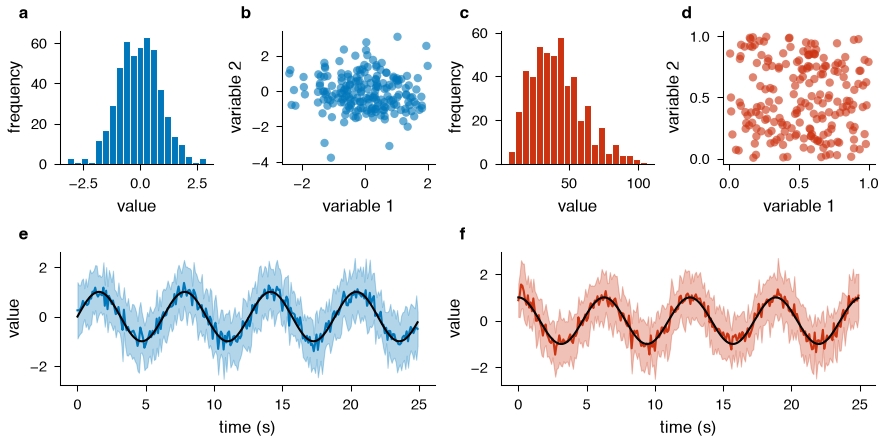
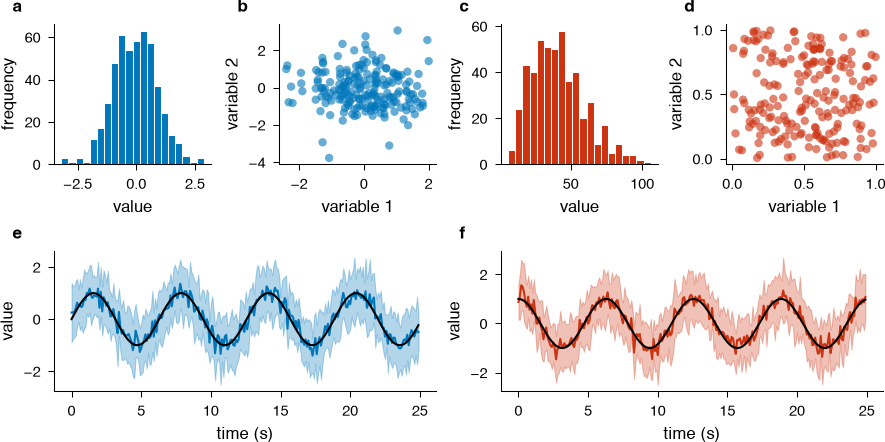
set constrained layout spacing defaults

diff --git a/tests/test_styles.py b/tests/test_styles.py
@@ -41,8 +41,12 @@ def test_spiffy_style_keeps_its_visual_and_export_contract(tmp_path):
         assert plt.rcParams["axes.linewidth"] == 0.5
         assert plt.rcParams["axes.spines.top"] is False
         assert plt.rcParams["axes.spines.right"] is False
-        assert plt.rcParams["axes.labelsize"] == 7.0
-        assert plt.rcParams["xtick.labelsize"] == 6.0
+        assert plt.rcParams["axes.labelsize"] == 8.0
+        assert plt.rcParams["xtick.labelsize"] == 7.0
+        assert plt.rcParams["figure.constrained_layout.h_pad"] == 0.0
+        assert plt.rcParams["figure.constrained_layout.w_pad"] == 0.0
+        assert plt.rcParams["figure.constrained_layout.hspace"] == 0.05
+        assert plt.rcParams["figure.constrained_layout.wspace"] == 0.05
         assert plt.rcParams["image.cmap"] == "tol.iridescent"
         assert plt.rcParams["axes.prop_cycle"].by_key()["color"] == list(
             colors.SPIFFY_CYCLE

diff --git a/CHANGELOG.md b/CHANGELOG.md
@@ -19,6 +19,7 @@ All notable changes to this project will be documented here. The format follows
 
 #### Changed
 
+- Set constrained-layout padding to 0 and panel spacing to 0.05.
 - **Changed default font sizes to 7-8pt.**
 - **Changed the default figure size to 4 x 2.5 in.**
 - Panel letters now default to `rcParams["axes.labelsize"]`
